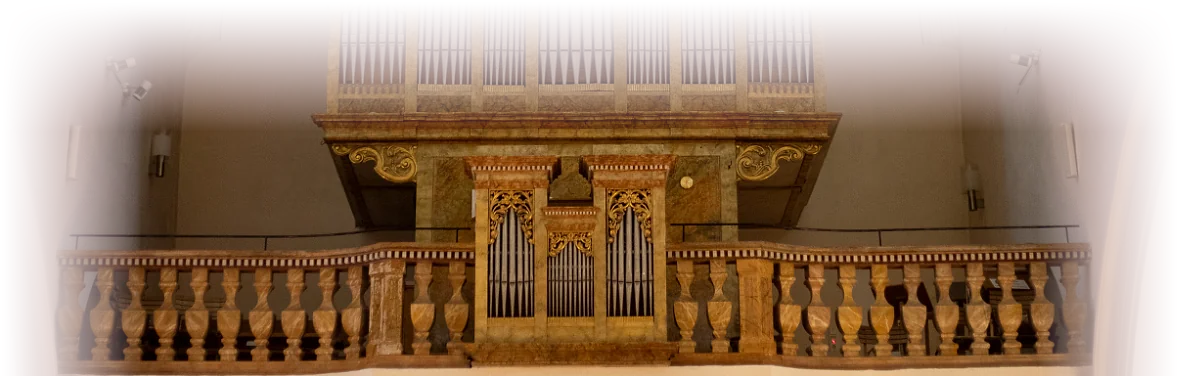
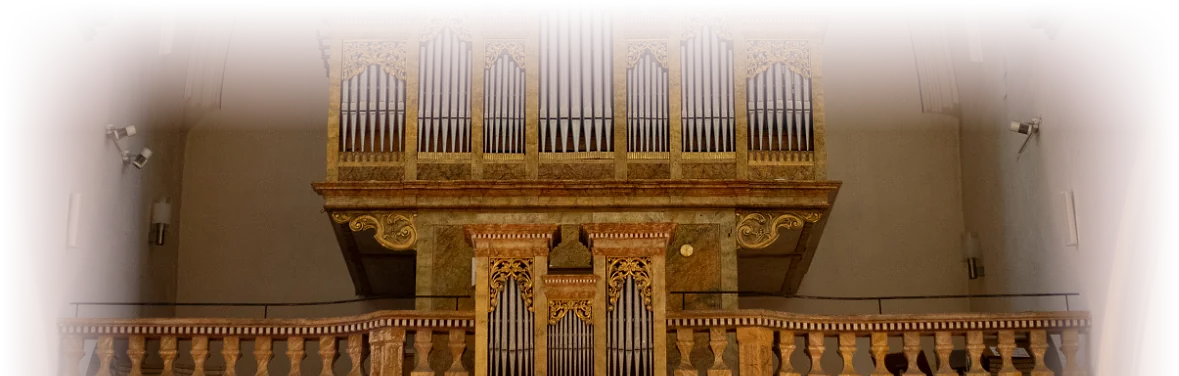
Shift hero crop up to show full pipe tops, half the balustrade
Remove the two hero CTA buttons for now; will re-add them in a
different spot later.

diff --git a/src/pages/Home.jsx b/src/pages/Home.jsx
@@ -30,10 +30,6 @@ export default function Home() {
           <h1>Orgelverein Ferschnitz</h1>
           <p>„Gott ist ein Organist, wir sind sein Orgelwerk; sein Geist bläst jedem ein.“</p>
           <p className="hero-cite">— Angelus Silesius</p>
-          <div style={{ display: 'flex', gap: '1rem', justifyContent: 'center', flexWrap: 'wrap' }}>
-            <Link to="/mitglied-werden" className="btn btn-primary">Mitglied werden</Link>
-            <Link to="/ueber-uns" className="btn btn-outline">Über uns</Link>
-          </div>
         </div>
       </section>
 
